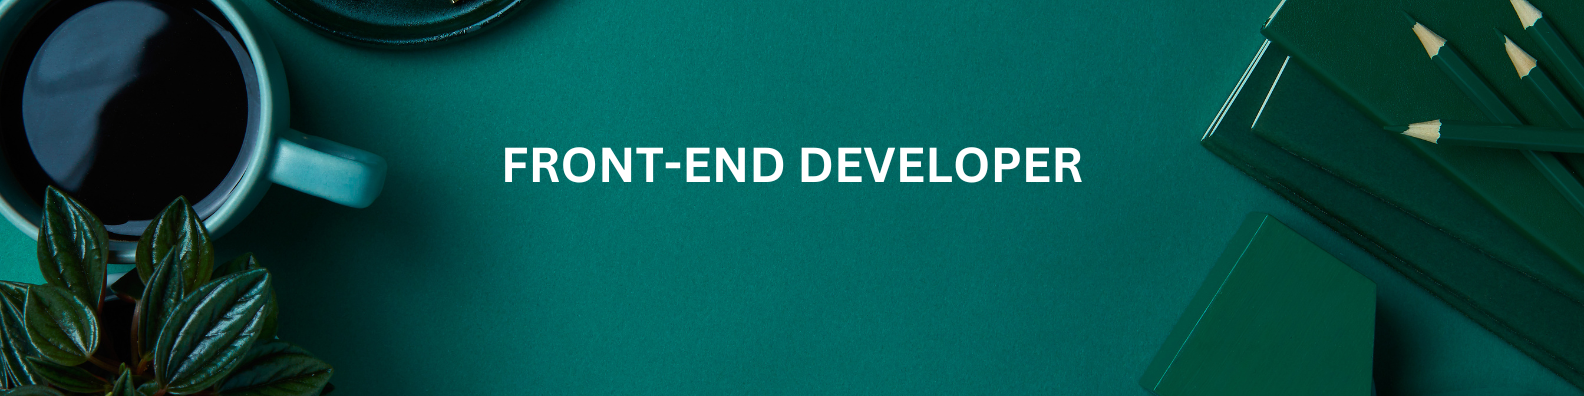
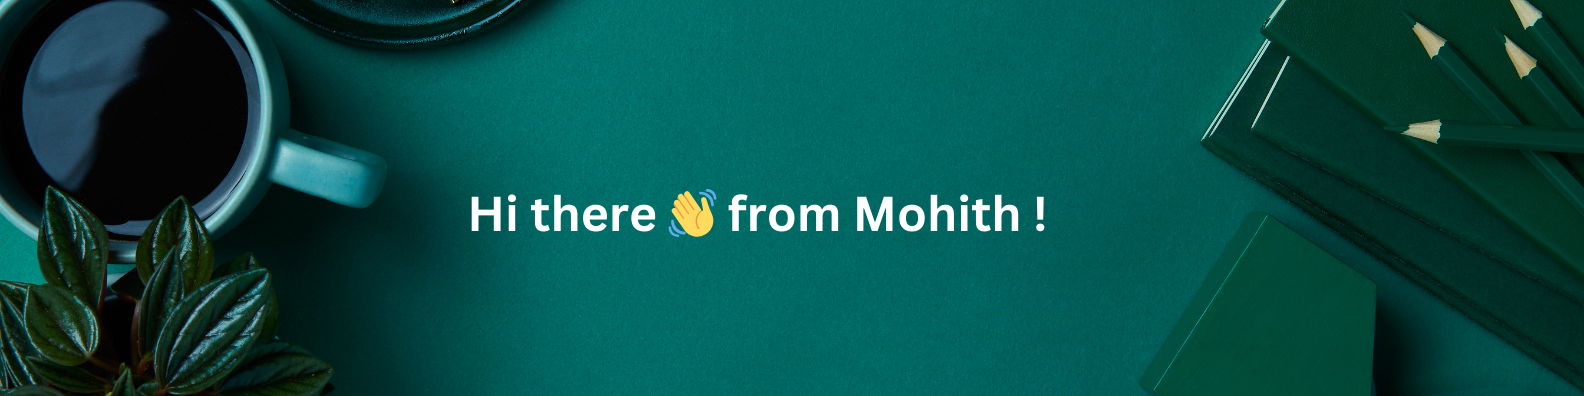
changes are added

Changed region(s): [[0.2784, 0.3636, 0.6806, 0.6061]]

diff --git a/README.md b/README.md
@@ -1,4 +1,4 @@
-## Hi there 👋 from Mohith !
+![Welcome Message](main.png)
 
 <!--
 **MohithJegan/MohithJegan** is a ✨ _special_ ✨ repository because its `README.md` (this file) appears on your GitHub profile.
